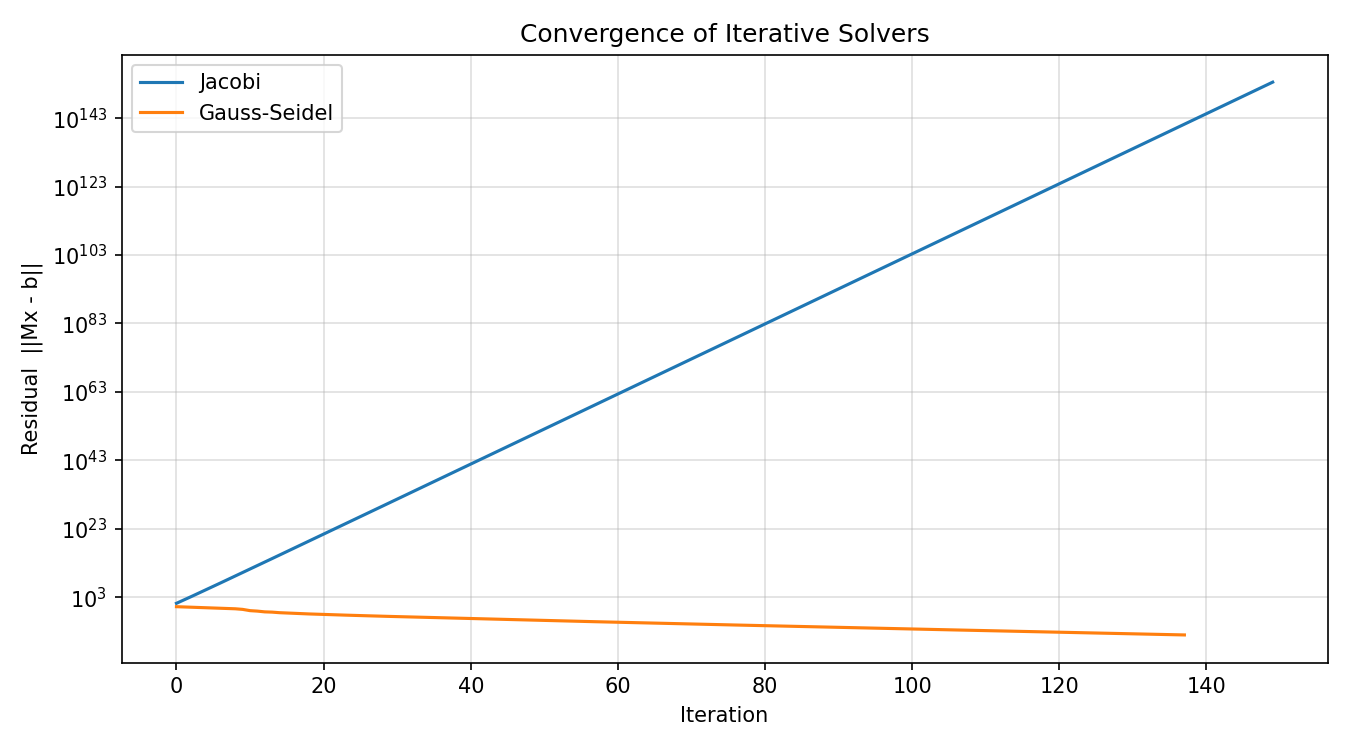
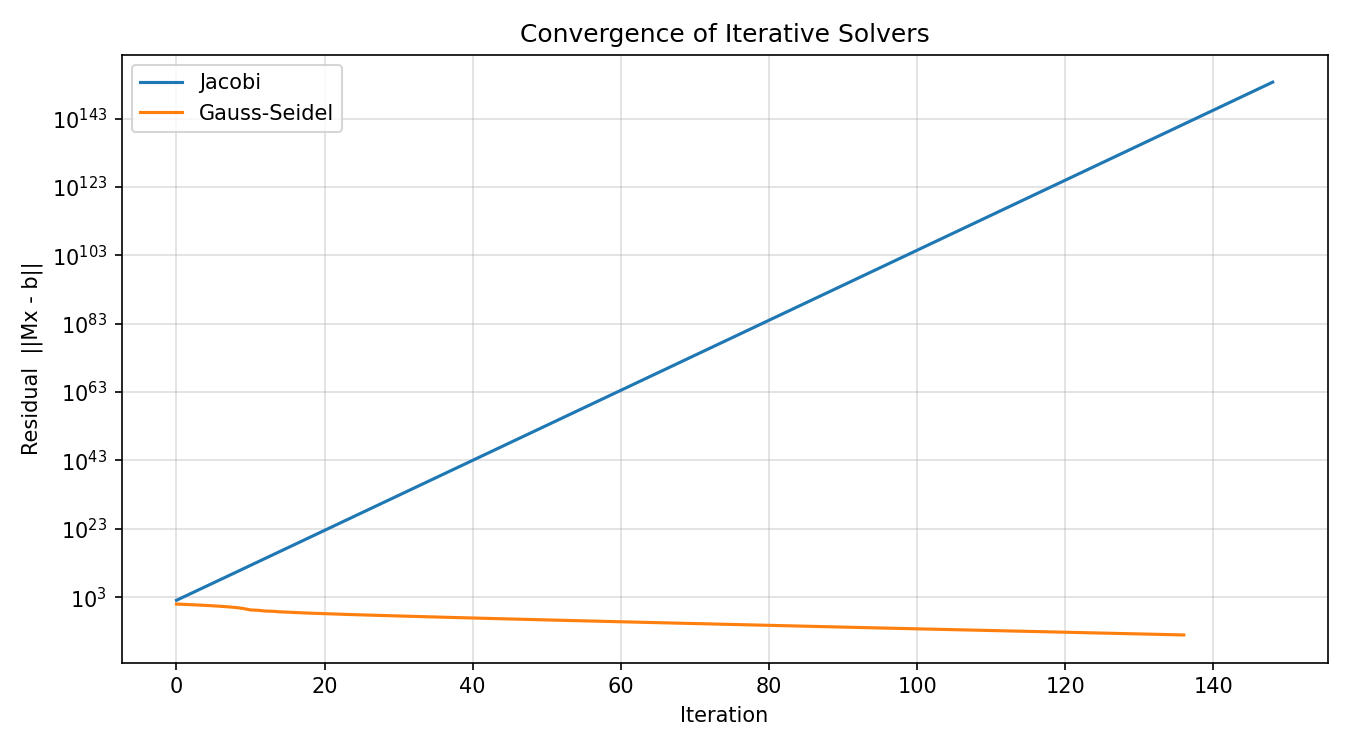
.

diff --git a/multivariate_regression_gd.py b/multivariate_regression_gd.py
@@ -1,0 +1,74 @@
+import numpy as np
+
+
+# Step 1: original code, works as is (3D, no noise)
+
+def test_plane(x):
+    return 2 * x[0] - x[1] + 3*x[2]
+
+
+n = 1000
+m = 3
+
+a = -1
+b = 1
+
+x_vals = np.random.uniform(a, b, size=(m, n))
+
+y_vals_exact = test_plane(x_vals)
+
+noise = np.random.normal(0, 0.5, size=y_vals_exact.shape)
+noise = np.zeros_like(y_vals_exact)
+y = y_vals_exact + noise
+
+X = np.stack(x_vals, axis=1)
+
+c = np.array([1.0, 1.0, 1.0])
+
+max_iters = 10000
+alpha = 0.001
+eps = 0.000001
+
+for i in range(max_iters):
+    c -= alpha * X.T @ (X @ c - y)
+    loss = np.linalg.norm(X @ c - y) ** 2
+    step = alpha * X.T @ (X @ c - y)
+    if np.linalg.norm(step) < eps:
+        break
+    print(f"{i}: loss: {loss:.2f}; c = {c}")
+
+print(f"Final: loss: {loss:.6f}; c = {c}")
+print(f"True c = [2, -1, 3]")
+
+
+# Step 2 + 3: noise added, dimensionality increased to 5
+
+print("\n--- 5D with noise ---\n")
+
+def test_plane_5d(x):
+    return 2*x[0] - x[1] + 3*x[2] - 0.5*x[3] + 1.5*x[4]
+
+
+m = 5
+
+x_vals = np.random.uniform(a, b, size=(m, n))
+y_vals_exact = test_plane_5d(x_vals)
+
+noise = np.random.normal(0, 0.5, size=y_vals_exact.shape)
+y = y_vals_exact + noise
+
+X = np.stack(x_vals, axis=1)
+
+c = np.ones(m)
+
+for i in range(max_iters):
+    c -= alpha * X.T @ (X @ c - y)
+    loss = np.linalg.norm(X @ c - y) ** 2
+    step = alpha * X.T @ (X @ c - y)
+    if np.linalg.norm(step) < eps:
+        break
+    print(f"{i}: loss: {loss:.2f}; c = {c}")
+
+print(f"Final ({i} iters): loss: {loss:.4f}")
+print(f"recovered c = {np.round(c, 4)}")
+print(f"true     c = [2, -1, 3, -0.5, 1.5]")

diff --git a/final/image_restoration.py b/final/image_restoration.py
@@ -4,7 +4,7 @@ from skimage import io, color
 from scipy.ndimage import convolve
 from scipy.linalg import toeplitz, solve_triangular
 
-image = io.imread("images/astronaut.jpg")
+image = io.imread("image.png")
 gray = color.rgb2gray(image)
 
 np.random.seed(42)
@@ -81,7 +81,7 @@ for ax, img, title in zip(axes, imgs, titles):
     ax.set_title(title)
     ax.axis("off")
 plt.tight_layout()
-plt.savefig("images/restoration_comparison.png", dpi=150)
+plt.savefig("../images/restoration_comparison.png", dpi=150)
 plt.show()
 
 plt.figure(figsize=(9, 5))
@@ -93,7 +93,7 @@ plt.title("Convergence of Iterative Solvers")
 plt.legend()
 plt.grid(True, which="both", alpha=0.4)
 plt.tight_layout()
-plt.savefig("images/convergence.png", dpi=150)
+plt.savefig("../images/convergence.png", dpi=150)
 plt.show()
 
 cond_unreg = np.linalg.cond(A.T @ A)
@@ -113,5 +113,5 @@ axes[1].set_title("Without regularization  (lam ~ 0)")
 axes[1].axis("off")
 plt.suptitle("Why condition number matters")
 plt.tight_layout()
-plt.savefig("images/condition_number.png", dpi=150)
+plt.savefig("../images/condition_number.png", dpi=150)
 plt.show()
